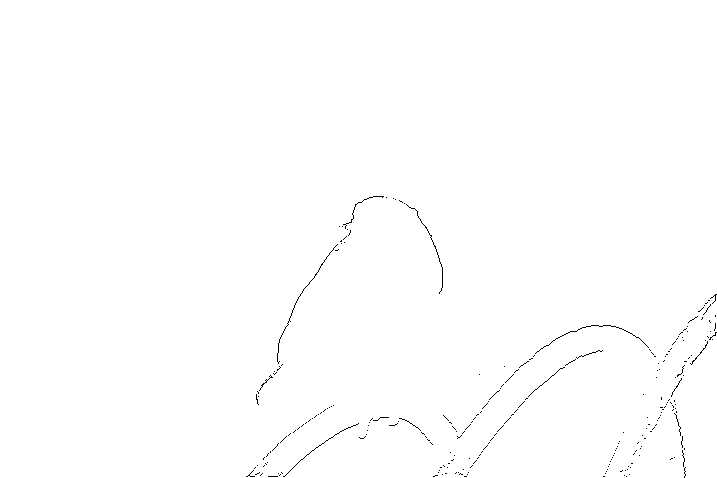
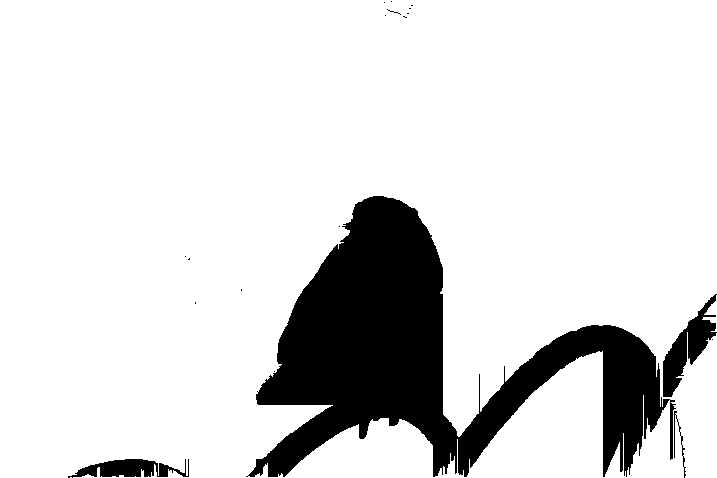
Fill object

Changed region(s): [[0.3375, 0.41, 1.0, 1.0], [0.0921, 0.9372, 0.2762, 1.0]]

diff --git a/objectDetection.js b/objectDetection.js
@@ -68,6 +68,15 @@ function createRGBPixels(name) {
 
         };
 
+        p.setRGB = function(i, j, color) {
+            
+            this.set(i, j, 0, color.r);
+            this.set(i, j, 1, color.g);
+            this.set(i, j, 2, color.b);
+            this.set(i, j, 3, 255);
+
+        };
+
         var foldLeftPixels = function(pixelSeed){
             
             return function(f) {
@@ -308,7 +317,7 @@ function createRGBPixels(name) {
 
         };
 
-        p.getDetectionArrayPixels = function(detection2DArray, backPixel, frontPixel) {
+        p.getDetectionArrayPixels = function(detection2DArray) {
             
             var detectionArrayPixels = [];
             
@@ -318,13 +327,13 @@ function createRGBPixels(name) {
                 
                 for (var j=0, len_j=rowDetectionArray.length; j<len_j; j++) {
                     if (rowDetectionArray[j]) {
-                        detectionArrayPixels.push(frontPixel.r);
-                        detectionArrayPixels.push(frontPixel.g);
-                        detectionArrayPixels.push(frontPixel.b);
+                        detectionArrayPixels.push(1);
+                        detectionArrayPixels.push(1);
+                        detectionArrayPixels.push(1);
                     } else {
-                        detectionArrayPixels.push(backPixel.r);
-                        detectionArrayPixels.push(backPixel.g);
-                        detectionArrayPixels.push(backPixel.b);
+                        detectionArrayPixels.push(0);
+                        detectionArrayPixels.push(0);
+                        detectionArrayPixels.push(0);
                     }
                     detectionArrayPixels.push(255);
                 }
@@ -334,6 +343,94 @@ function createRGBPixels(name) {
 
         }
 
+        p.fill = function(backPixel, frontPixel) {
+
+            var filled2DArray = this.foldLeftPixelRows([])(function(filled2DArray, curRow) {
+                
+                var filled2DArrayRowResult = curRow.foldLeftPixels([[], false])(function([filled2DArrayRow, done], curPixel) {
+
+                    if (done || curPixel.r === 1) {
+                        done = true;
+                        filled2DArrayRow.push(true);
+                    } else {
+                        filled2DArrayRow.push(false);
+                    }
+                    
+                    return [filled2DArrayRow, done];
+
+                }.bind(this));
+
+                var filled2DArrayRow = filled2DArrayRowResult[0];
+
+                curRow.foldRightPixels([filled2DArrayRow, filled2DArrayRow.length-1, false])(function([filled2DArrayRow, colIndex, done], curPixel) {
+                    
+                    if (!done) {
+                        if (curPixel.r === 0) {
+                            filled2DArrayRow[colIndex] = false;
+                        } else {
+                            done = true;
+                        }
+                    }
+                    
+                    return [filled2DArrayRow, colIndex - 1, done];
+
+                }.bind(this));
+                
+                filled2DArray.push(filled2DArrayRow);
+
+                return filled2DArray;
+            
+            }.bind(this));
+
+            this.foldLeftPixelCols([filled2DArray, 0])(function([filled2DArray, colIndex], curCol) {
+                
+                curCol.foldLeftPixels([filled2DArray, 0, false])(function([filled2DArray, rowIndex, done], curPixel) {
+
+                    if (!done) {
+                        if ( curPixel.r === 0) {
+                            filled2DArray[rowIndex][colIndex] = false;
+                        } else {
+                            done = true;
+                        }
+                    }
+                    
+                    return [filled2DArray, rowIndex + 1, done];
+
+                }.bind(this));
+
+                curCol.foldRightPixels([filled2DArray, curCol.length-1, false])(function([filled2DArray, rowIndex, done], curPixel) {
+                    
+                    if (!done) {
+                        if ( curPixel.r === 0) {
+                            filled2DArray[rowIndex][colIndex] = false;
+                        } else {
+                            done = true;
+                        }
+                    }
+                    
+                    return [filled2DArray, rowIndex - 1, done];
+
+                }.bind(this));
+
+                return [filled2DArray, colIndex + 1];
+            
+            }.bind(this));
+
+            for (var i=0, len_i=filled2DArray.length; i<len_i; i++) {
+                
+                var filled2DArrayRow = filled2DArray[i];
+
+                for (var j=0, len_j=filled2DArrayRow.length; j<len_j; j++) {
+                    if (filled2DArrayRow[j]) {
+                        this.setRGB(i, j, frontPixel);
+                    } else {
+                        this.setRGB(i, j, backPixel);
+                    }
+                }
+            }
+
+        };
+
         p.detectObject = function(sensitivity, tolerance, backPixel, frontPixel) {
 
             var detection2DArray = this.detectObjectRowWise(sensitivity);
@@ -341,13 +438,19 @@ function createRGBPixels(name) {
             this.detectObjectColWise(sensitivity, detection2DArray);            
             
             var { optimal, optimalClusterSize } = this.removeNoise(detection2DArray, tolerance);
-                detectionArrayPixels = this.getDetectionArrayPixels(detection2DArray, backPixel, frontPixel);
+                detectionArrayPixels = this.getDetectionArrayPixels(detection2DArray);
             var detectedObject = createRGBPixels({
                 l: this.shape[0],
                 w: this.shape[1],
                 pixelArray: detectionArrayPixels,
                 optimal,
                 optimalClusterSize
+            }).then(function(detectedObject){
+
+                detectedObject.fill(backPixel, frontPixel);
+
+                return detectedObject;
+
             });
 
             return detectedObject;

diff --git a/template.html b/template.html
@@ -12,11 +12,11 @@
       <select id="hello" class="critical">
         <option value="" id="no-image">--select--</option>
         <option value="bird.jpg-84.6-21">Bird</option>
-        <option value="birb.jpg-93-15">Birb</option>
-        <option value="ball.jpg-50-50">Ball</option>
-        <option value="mic.jpg-88.7-16.2">Mic</option>
-        <option value="cherry.jpg-82.8-21.3">Cherry</option>
-        <option value="sunflower.jpg-94-16">Sunflower</option>
+        <option value="birb.jpg-93-55">Birb</option>
+        <option value="ball.jpg-95-35">Ball</option>
+        <option value="mic.jpg-87-20">Mic</option>
+        <option value="cherry.jpg-86-21">Cherry</option>
+        <option value="sunflower.jpg-94-22">Sunflower</option>
       </select><br>
     </fieldset>
     <fieldset class="fixed-height" hidden>
